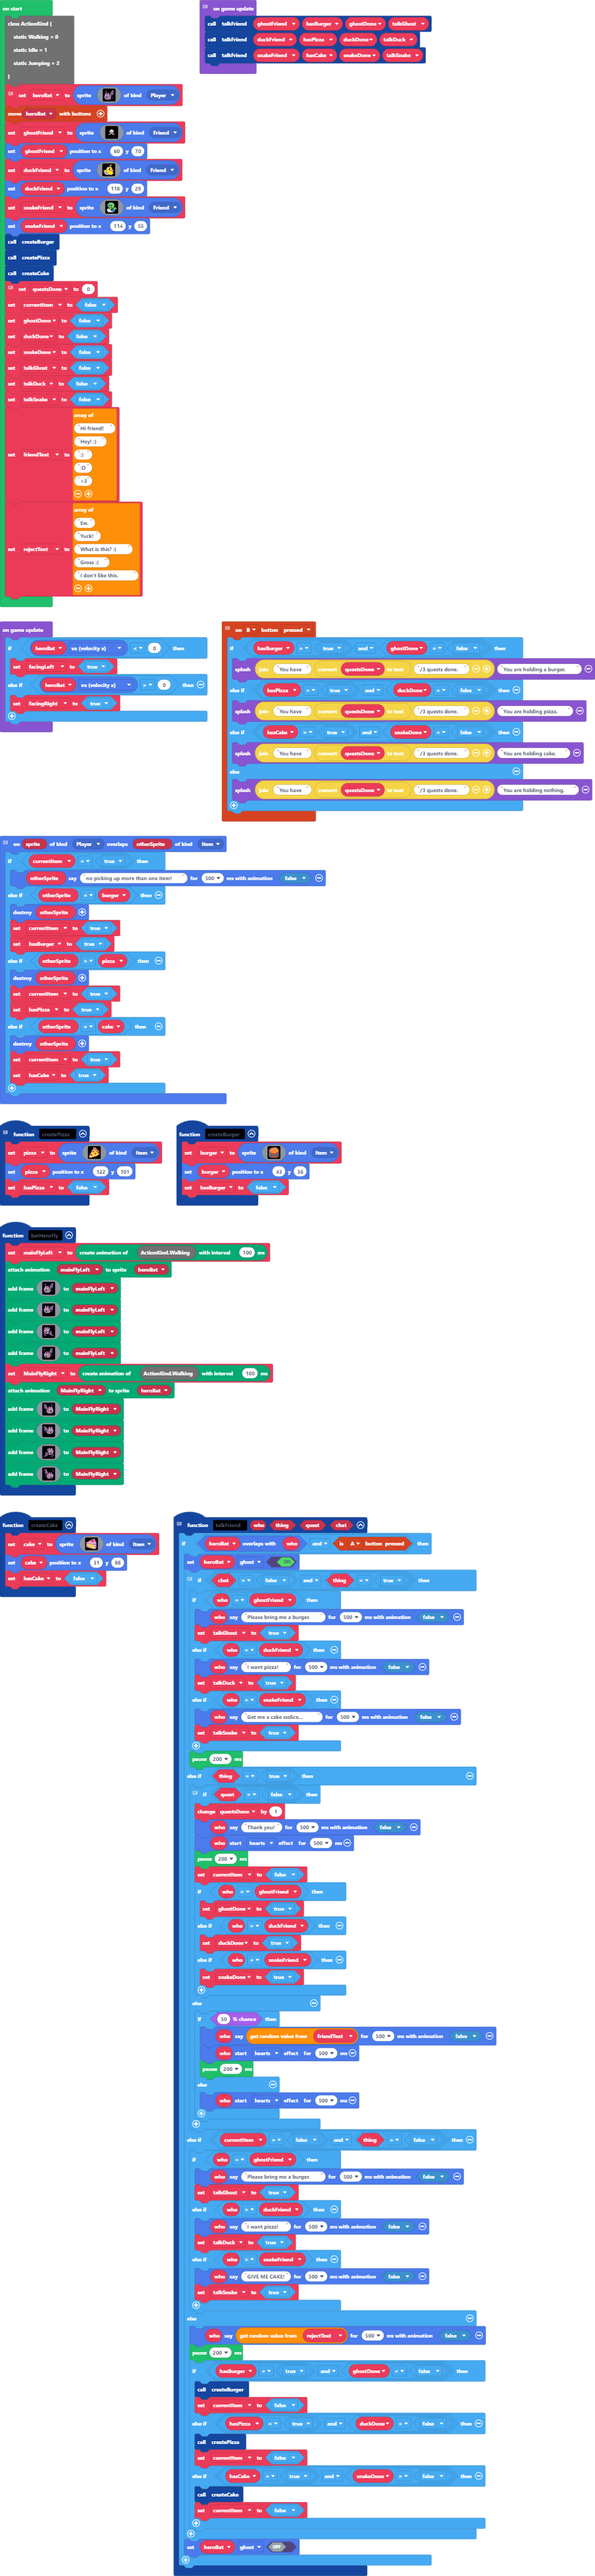
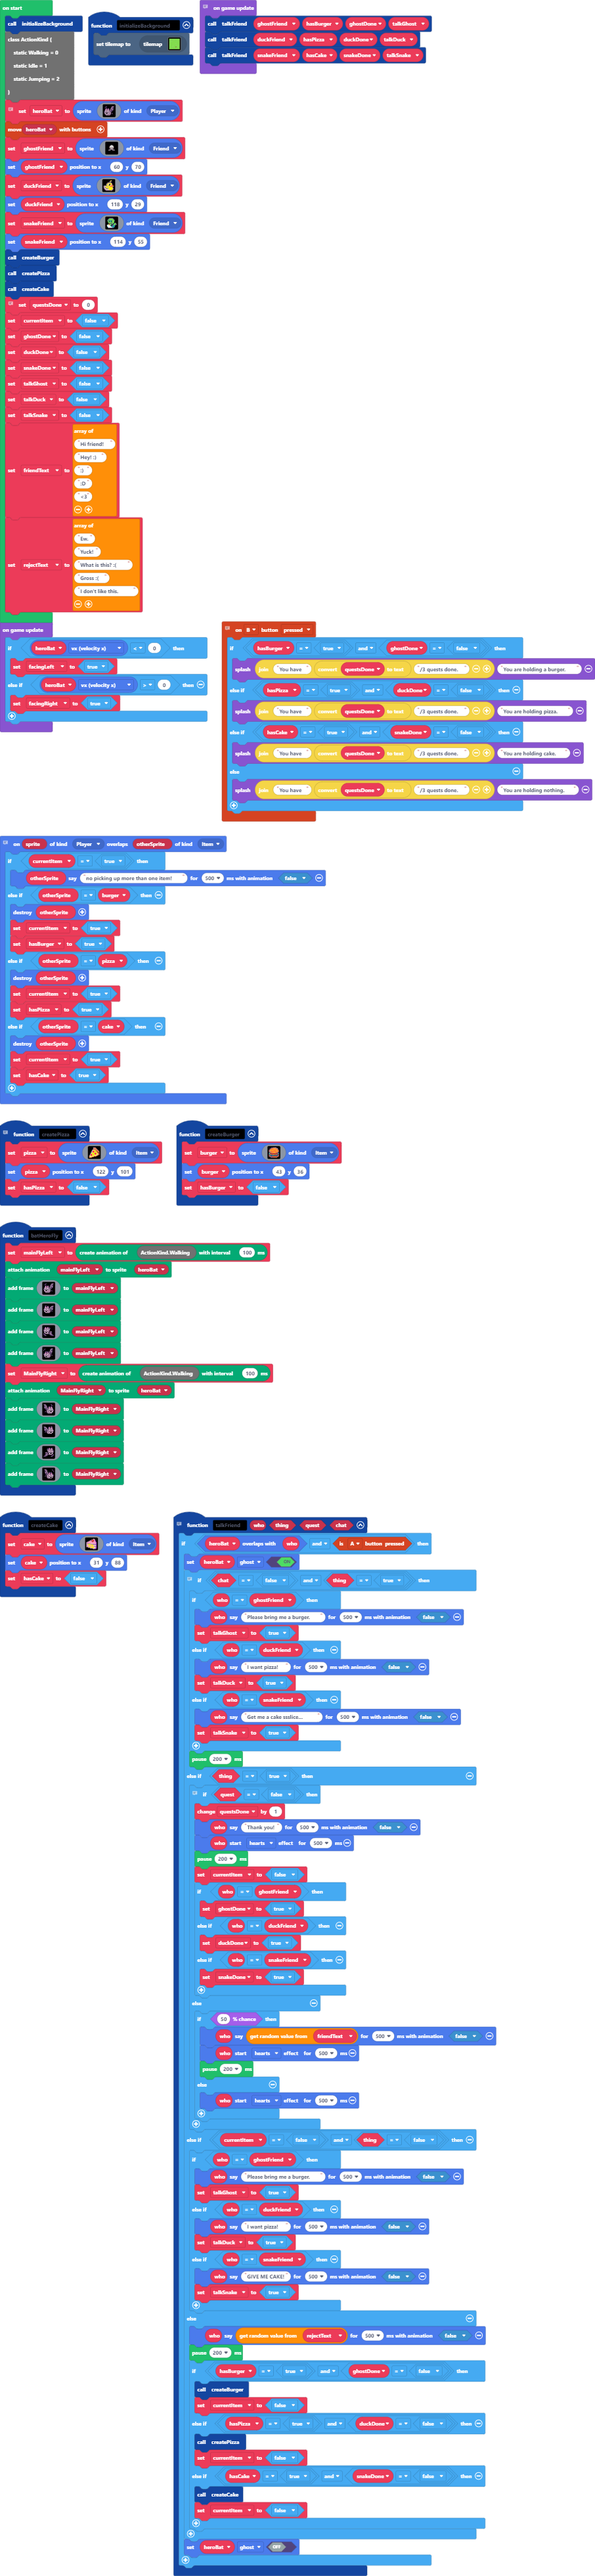
Update main.blocks, main.ts, tilemap.g.jres, tilemap.g.ts

Changed region(s): [[0.0, 0.0, 0.34, 0.2489]]

diff --git a/tilemap.g.ts b/tilemap.g.ts
@@ -36,6 +36,25 @@ namespace myTiles {
 . . . . . . . . . . . . . . . . 
 . . . . . . . . . . . . . . . . 
 `, [myTiles.transparency16], TileScale.Sixteen);
+            case "level3":
+            case "level3":return tiles.createTilemap(hex`1000100000000000000000000000000000000000000000000000000000000000000000000000000000000000000000000000000000000000000000000000000000000000000000000000000000000000000000000000000000000000000000000000000000000000000000000000000000000000000000000000000000000000000000000000000000000000000000000000000000000000000000000000000000000000000000000000000000000000000000000000000000000000000000000000000000000000000000000000000000000000000000000000000000000000000000000000000000000000000000000000000000000000000000000000000000000000`, img`
+. . . . . . . . . . . . . . . . 
+. . . . . . . . . . . . . . . . 
+. . . . . . . . . . . . . . . . 
+. . . . . . . . . . . . . . . . 
+. . . . . . . . . . . . . . . . 
+. . . . . . . . . . . . . . . . 
+. . . . . . . . . . . . . . . . 
+. . . . . . . . . . . . . . . . 
+. . . . . . . . . . . . . . . . 
+. . . . . . . . . . . . . . . . 
+. . . . . . . . . . . . . . . . 
+. . . . . . . . . . . . . . . . 
+. . . . . . . . . . . . . . . . 
+. . . . . . . . . . . . . . . . 
+. . . . . . . . . . . . . . . . 
+. . . . . . . . . . . . . . . . 
+`, [myTiles.transparency16], TileScale.Sixteen);
             case "level1":
             case "level1":return tiles.createTilemap(hex`2000200001010101010101080101010801010108010101010101080101080101080101010101010108080108010808010108010801080108080108010801010801010101010101080101010101010101010101090101010108010101010808010101010101080108010101080808080809010908010801080901080808010101010808010108010109080801080101010801010909080101080801090101010101010101080801080901080808080101090108010901080801010101010909010101010101010101080809080801080101010808010108010109010109010101080108010808010108090801010109010801010801010101080801080101080101080101010101010801010801090101080108010101080801010808010908080108010108010801010901090101010801010808010808080101010101010108010101080101080108080808010108080101080108010108080108080801010801080101010108080101010808010801010101010801010108080108010108010101010108010801010901010101080108080101080801010901010101010801010108010801010101010801010801010101010101010101010801010808010101010108080101080101010801080101080808010908010808010108010101010808080801080101080108010101010801010801080101090901080101010108010801080101010801010801080108010101090101080801090101010808010101010108010109010101010808080808010101080101010801010108010101080108010108090901080108080801080101080101080101010108080101010901010101010108090108010808010108010101010801080108010101090901080109080108090901010108080808010901090101080801080108010808010809010108010101080101010101010101010809010908010108010101010101010109080101010801010108010101080101010901010801080108080101080101090808010101010108080101080101090809010108080108010101010801010801080101080101010808080101080108010108010901080108040203010808010901090101010808010808010808010101080801080108010106050701010809010901080101010801080101080101010801010101010101080101010908010101010108010101080101010101080808010101010801010801010801080801080101010801010801010101080908010101080101080101010101080801080108090101010101010101080101090109090801010801010801080108080109010801010801080801080808010809010901010801010801010101080101010809090108080801010101010101010801080101010801010801010101080101080108010801010801`, img`
 ................................

diff --git a/main.ts b/main.ts
@@ -249,6 +249,9 @@ function createCake () {
     cake.setPosition(31, 88)
     hasCake = false
 }
+function initializeBackground () {
+    tiles.setCurrentTilemap(tilemap`level1`)
+}
 // talk to friend sprite
 function talkFriend (who: Sprite, thing: boolean, quest: boolean, chat: boolean) {
     if (heroBat.overlapsWith(who) && controller.A.isPressed()) {
@@ -346,6 +349,7 @@ let snakeFriend: Sprite = null
 let duckFriend: Sprite = null
 let ghostFriend: Sprite = null
 let heroBat: Sprite = null
+initializeBackground()
 class ActionKind {
     static Walking = 0
     static Idle = 1
